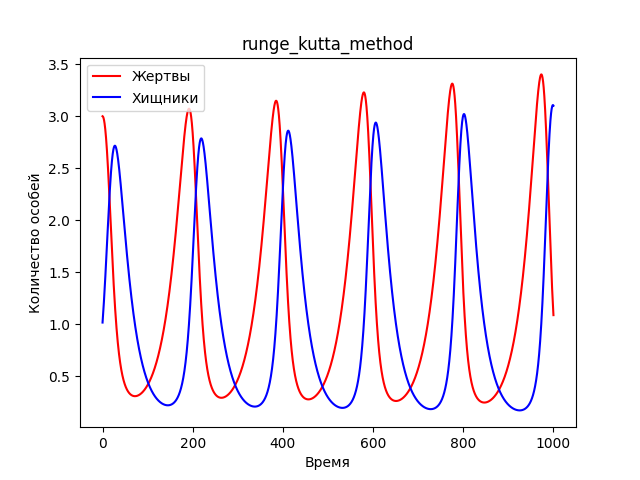
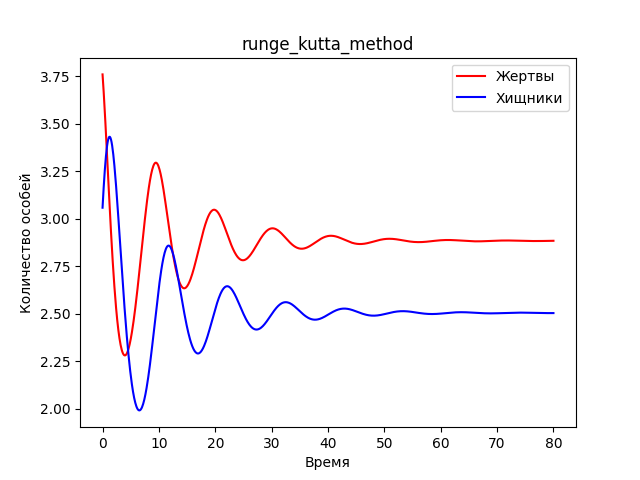
change predator model

diff --git a/VM/predator-prey model/main.py b/VM/predator-prey model/main.py
@@ -1,6 +1,6 @@
 import numpy
 import matplotlib.pyplot as plt
-from predator import runge_kutta_method, Bogacki_Shampine_method
+from predator import runge_kutta_method, Bogacki_Shampine_method, foo, boo
 import math
 
 def diffur1(x0, y0, a, b):
@@ -16,10 +16,10 @@ def default(data, alpha, delta):
 
 
 if __name__ == '__main__':
-    alpha = 1
-    beta = 1
+    alpha = 5
+    beta = 2
     gamma = 9
-    delta = 1
+    delta = 3
     statX = gamma / delta
     statY = alpha / beta
     h = 0.01
@@ -55,10 +55,28 @@ if __name__ == '__main__':
     plt.plot(t, x1, "red", label="Жертвы")
     plt.plot(t, y1, "blue", label="Хищники")
     plt.legend(loc='best')
+    plt.title('runge_kutta_method1')
+    plt.savefig('runge_kutta_method1')
+    plt.show()
+
+    t = numpy.linspace(0, 80, 800)
+    eq = [statX + 0.8, statY + 0.5]
+    x1 = []
+    y1 = []
+    for i in range(800):
+        unsv = foo(eq, diffur1, diffur2, alpha, beta, gamma, delta, h)
+        x1.append(unsv[0])
+        y1.append(unsv[1])
+        eq[0] = x1[-1]
+        eq[1] = y1[-1]
+    plt.xlabel("Время")
+    plt.ylabel("Количество особей")
+    plt.plot(t, x1, "red", label="Жертвы")
+    plt.plot(t, y1, "blue", label="Хищники")
+    plt.legend(loc='best')
     plt.title('runge_kutta_method')
     plt.savefig('runge_kutta_method')
     plt.show()
-
 
     x = []
     y = []

diff --git a/VM/predator-prey model/predator.py b/VM/predator-prey model/predator.py
@@ -12,3 +12,25 @@ def Bogacki_Shampine_method(eq, f, a, b, h):
     y = eq[1] + 2 * h * k1 / 24.0 + h * k2 / 4.0 + 4*h*k3/9.0
     k4 = f(eq[0]+h, y, a, b)
     return 7*h*k1/24.0 + h*k2/4.0 + h*k3/3.0 + h*k4/8.0
+
+
+def foo(eq, f, f1, a, b, c, d, h):
+    k1 = h * f(eq[0], eq[1], a, b)
+    q1 = h * f1(eq[0], eq[1], c, d)
+
+    k2 = h * f(eq[0] + q1/2.0, eq[1] + k1 / 2.0, a, b)
+    q2 = h * f1(eq[0] + q1/2.0, eq[1] + k1 / 2.0, c, d)
+
+    k3 = h * f(eq[0] + q2 / 2.0, eq[1] + k2 / 2.0, a, b)
+    q3 = h * f1(eq[0] + q2 / 2.0, eq[1] + k2 / 2.0, c, d)
+
+
+    k4 = h * f(eq[0] + q3, eq[1] + k3, a, b)
+    q4 = h * f(eq[0] + q3, eq[1] + k3, c, d)
+
+    res = []
+    res.append(eq[0] + ((k1 + 2.0*k2 + 2.0*k3 + k4)/6.0))
+    res.append(eq[1] + ((q1 + 2.0*q2 + 2.0*q3 + q4)/6.0))
+    return res
+
+
